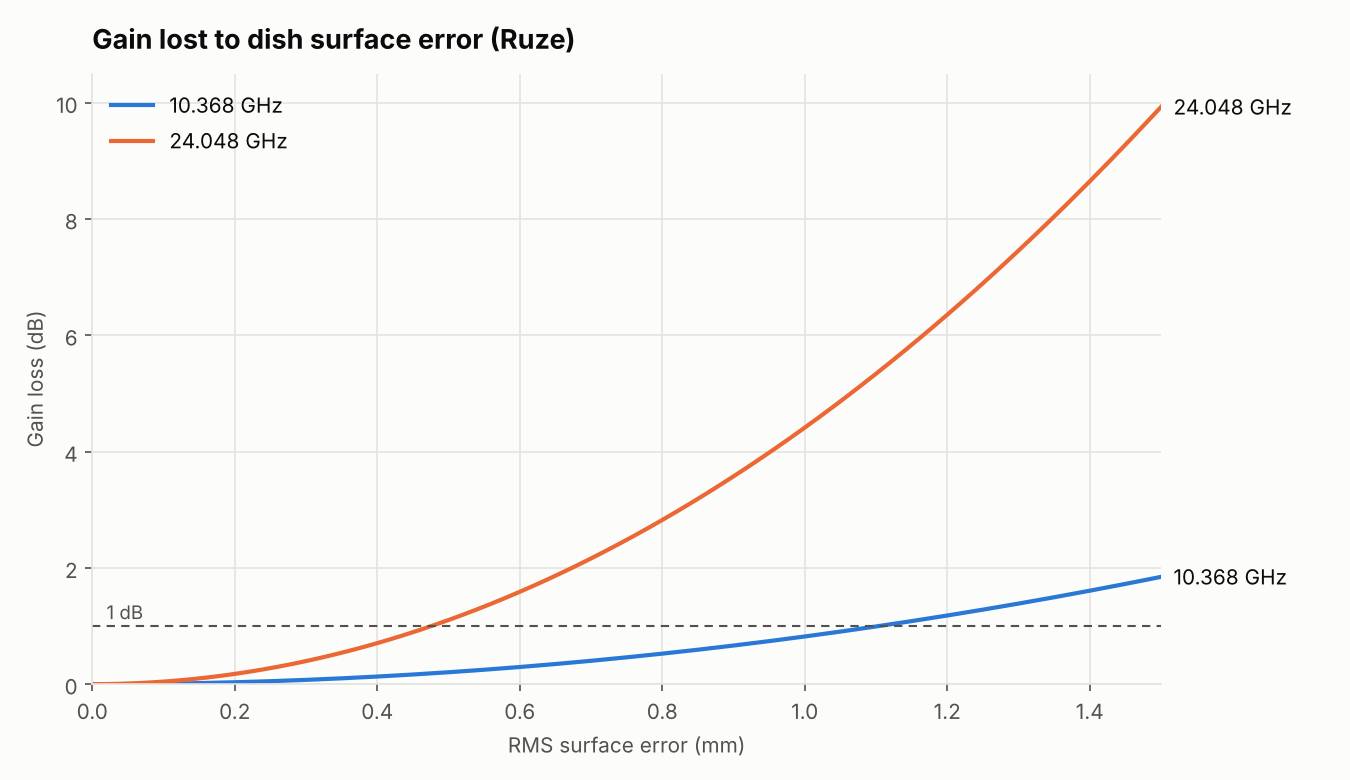
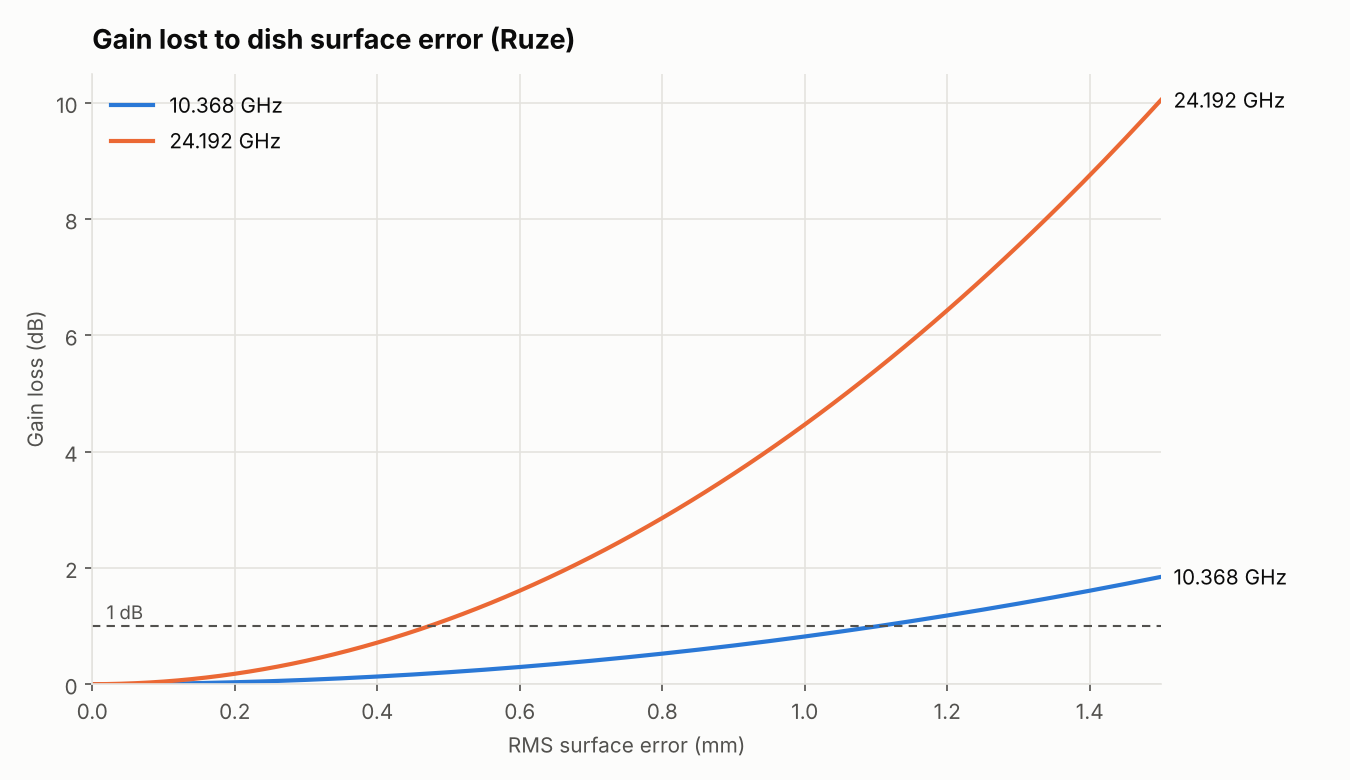
Use 24.192 GHz, the North American terrestrial 24 GHz frequency
Claude-Session: https://claude.ai/code/session_01UT9Wmn24kQZdNkudeefJNH

diff --git a/make_report.py b/make_report.py
@@ -16,7 +16,7 @@ import dishcalc as dc
 ROOT = pathlib.Path(__file__).parent
 DISHES = [("23.6 in", 23.6 * dc.INCH), ("24 in", 24 * dc.INCH), ("0.75 m", 0.75),
           ("0.80 m", 0.80), ("0.88 m", 0.88)]
-BANDS = [10.368, 24.048]
+BANDS = [10.368, 24.192]
 EFFS = [0.55, 0.60, 0.65, 0.70, 0.75]
 RMS = [0.25, 0.5, 0.75, 1.0]
 
@@ -79,7 +79,7 @@ def style(ax, title, xlabel, ylabel):
 def chart_loss_vs_rms():
     eps = np.linspace(0, 1.5, 151)
     fig, ax = plt.subplots(figsize=(9, 5.2), facecolor=SURFACE)
-    for f, color, label in ((10.368, BLUE, "10.368 GHz"), (24.048, ORANGE, "24.048 GHz")):
+    for f, color, label in ((10.368, BLUE, "10.368 GHz"), (24.192, ORANGE, "24.192 GHz")):
         y = [dc.ruze_loss_db(e, f) for e in eps]
         ax.plot(eps, y, color=color, linewidth=2, label=label)
         ax.annotate(label, (eps[-1], y[-1]), xytext=(6, 0), textcoords="offset points",
@@ -142,7 +142,7 @@ def chart_net_eff_by_band():
     fig, ax = plt.subplots(figsize=(9, 5.2), facecolor=SURFACE)
     ax.axhline(illum * 100, color=INK2, linewidth=1.2, linestyle=(0, (4, 3)))
     ax.text(0.01, illum * 100 + 1.2, f"Perfect surface: {illum:.1%} (any band)", color=INK2, fontsize=9)
-    for f, color in ((10.368, BLUE), (24.048, ORANGE)):
+    for f, color in ((10.368, BLUE), (24.192, ORANGE)):
         y = [illum * 10 ** (-dc.ruze_loss_db(e, f) / 10) * 100 for e in eps]
         ax.plot(eps, y, color=color, linewidth=2, label=f"{f} GHz")
         ax.annotate(f"{f} GHz", (eps[-1], y[-1]), xytext=(6, 0), textcoords="offset points",
@@ -176,7 +176,7 @@ SCENARIOS = [
 def scenario_table() -> str:
     other = 10 ** (-OTHER_LOSS_DB / 10)
     t = ("| Dish | RMS (assumed) | Illum. × spill | Blockage 10 / 24 | Net eff. 10 GHz | Net eff. 24 GHz "
-         "| Gain 10.368 | Gain 24.048 |\n|---|---|---|---|---|---|---|---|\n")
+         "| Gain 10.368 | Gain 24.192 |\n|---|---|---|---|---|---|---|---|\n")
     for name, geom, fd, feed_fd, rms in SCENARIOS:
         n, _ = dc.best_feed_n(feed_fd)
         illum = dc.illumination_efficiency(n, fd)
@@ -211,14 +211,14 @@ def main():
     tables = (
         "### 10 GHz (10.368 GHz, λ = {:.2f} mm) — gain in dBi\n\n{}\n\n"
         "At 10.4 GHz add about 0.03 dB.\n\n"
-        "### 24 GHz (24.048 GHz, λ = {:.2f} mm) — gain in dBi\n\n{}\n\n"
+        "### 24 GHz (24.192 GHz, λ = {:.2f} mm) — gain in dBi\n\n{}\n\n"
         "### Surface-error (Ruze) loss\n\n{}\n\n"
         "### Surface tolerance for a given loss budget\n\n{}\n\n"
         "### Illumination efficiency by band (prime focus, best-matched feed)\n\n{}\n\n"
         "### Feed f/D mismatch example (prime focus: feed for f/D 0.40 on an f/D 0.31 dish)\n\n{}\n\n"
         "### Offset vs. prime focus: planning comparison\n\n{}"
     ).format(dc.wavelength_m(10.368) * 1000, gain_table(10.368),
-             dc.wavelength_m(24.048) * 1000, gain_table(24.048),
+             dc.wavelength_m(24.192) * 1000, gain_table(24.192),
              ruze_table(), tolerance_table(), efficiency_band_table(), feed_table(), scenario_table())
     readme = ROOT / "README.md"
     text = readme.read_text()

diff --git a/tests/test_dishcalc.py b/tests/test_dishcalc.py
@@ -21,14 +21,14 @@ def test_efficiency_not_squared():
 
 
 def test_band_scaling():
-    diff = dc.gain_dbi(0.75, 24.048, 0.6) - dc.gain_dbi(0.75, 10.368, 0.6)
-    assert math.isclose(diff, 20 * math.log10(24.048 / 10.368), abs_tol=1e-9)
+    diff = dc.gain_dbi(0.75, 24.192, 0.6) - dc.gain_dbi(0.75, 10.368, 0.6)
+    assert math.isclose(diff, 20 * math.log10(24.192 / 10.368), abs_tol=1e-9)
 
 
 def test_ruze():
-    assert math.isclose(dc.ruze_loss_db(0.5, 24.048), 1.10, abs_tol=0.01)
+    assert math.isclose(dc.ruze_loss_db(0.5, 24.192), 1.12, abs_tol=0.01)
     assert math.isclose(dc.ruze_loss_db(0.5, 10.368), 0.21, abs_tol=0.01)
-    assert math.isclose(dc.ruze_loss_db(dc.rms_for_loss_mm(1.0, 24.048), 24.048), 1.0, abs_tol=1e-9)
+    assert math.isclose(dc.ruze_loss_db(dc.rms_for_loss_mm(1.0, 24.192), 24.192), 1.0, abs_tol=1e-9)
 
 
 def test_feed_mismatch():
@@ -47,11 +47,11 @@ def test_illumination_band_independent_and_net_by_band():
     # Ideal illumination efficiency is pure geometry: textbook ~82-83 % for cos^2 at f/D 0.4.
     assert 0.80 < dc.illumination_efficiency(2.0, 0.40) < 0.84
     # Surface error makes the same dish less efficient at 24 GHz than at 10 GHz.
-    assert dc.net_efficiency(0.6, 24.048, 0.5) < dc.net_efficiency(0.6, 10.368, 0.5)
+    assert dc.net_efficiency(0.6, 24.192, 0.5) < dc.net_efficiency(0.6, 10.368, 0.5)
 
 
 def test_blockage_smaller_at_24ghz():
     d = 0.75
     b10 = dc.blockage_efficiency(3 * dc.wavelength_m(10.368), d)
-    b24 = dc.blockage_efficiency(3 * dc.wavelength_m(24.048), d)
+    b24 = dc.blockage_efficiency(3 * dc.wavelength_m(24.192), d)
     assert 0.95 < b10 < b24 < 1.0

diff --git a/README.md b/README.md
@@ -8,8 +8,8 @@ It includes a small Python calculator (`dishcalc.py`), a script that regenerates
 
 ## Key takeaways
 
-- **The same dish gains 7.31 dB going from 10.368 to 24.048 GHz**, as long as its efficiency holds up.
-- **Efficiency usually doesn't hold up at 24 GHz.** Surface-error loss grows with frequency squared, so a given surface costs about **5.4×** as many dB at 24 GHz as at 10 GHz. A pressed-steel dish with 0.5–0.8 mm RMS error barely notices it on 10 GHz (0.2–0.5 dB) but loses 1.1–2.8 dB on 24 GHz.
+- **The same dish gains 7.36 dB going from 10.368 to 24.192 GHz**, as long as its efficiency holds up.
+- **Efficiency usually doesn't hold up at 24 GHz.** Surface-error loss grows with frequency squared, so a given surface costs about **5.4×** as many dB at 24 GHz as at 10 GHz. A pressed-steel dish with 0.5–0.8 mm RMS error barely notices it on 10 GHz (0.2–0.5 dB) but loses 1.1–2.9 dB on 24 GHz.
 - **Illumination efficiency is pure geometry.** A feed scaled to each band gives the same illumination efficiency on 10 and 24 GHz. The difference between bands comes from the surface, not the feed.
 - **Offset dishes are all alike in the ways that matter here.** They're built for satellite TV and use much the same feed geometry, so f/D isn't a useful way to compare them. What separates one from another is mainly size and surface accuracy.
 - **Prime-focus dishes vary much more.** f/D, how well the feed matches it, and surface quality (spun aluminum vs. mesh or homebrew) all swing widely. That's where the f/D and feed analysis below matters.
@@ -22,7 +22,7 @@ It includes a small Python calculator (`dishcalc.py`), a script that regenerates
 pip install -r requirements.txt
 
 # Gain, surface loss and beamwidth for a 76 cm dish on 10 and 24 GHz, 60% efficiency, 0.5 mm RMS
-python dishcalc.py -d 76cm -f 10.368 24.048 -e 0.60 -r 0.5
+python dishcalc.py -d 76cm -f 10.368 24.192 -e 0.60 -r 0.5
 
 # Add a feed-mismatch estimate
 python dishcalc.py -d 24in -f 10.368 -e 0.65 --dish-fd 0.31 --feed-fd 0.40
@@ -120,43 +120,43 @@ All tables below are generated by `make_report.py`. Gains are in dBi, and effici
 
 At 10.4 GHz add about 0.03 dB.
 
-### 24 GHz (24.048 GHz, λ = 12.47 mm) — gain in dBi
+### 24 GHz (24.192 GHz, λ = 12.39 mm) — gain in dBi
 
 | Dish | 55% | 60% | 65% | 70% | 75% | HPBW |
 |---|---|---|---|---|---|---|
-| 23.6 in (0.599 m) | 40.99 | 41.36 | 41.71 | 42.03 | 42.33 | 1.46° |
-| 24 in (0.610 m) | 41.13 | 41.51 | 41.86 | 42.18 | 42.48 | 1.43° |
-| 0.75 m (0.750 m) | 42.93 | 43.31 | 43.66 | 43.98 | 44.28 | 1.16° |
-| 0.80 m (0.800 m) | 43.49 | 43.87 | 44.22 | 44.54 | 44.84 | 1.09° |
-| 0.88 m (0.880 m) | 44.32 | 44.70 | 45.05 | 45.37 | 45.67 | 0.99° |
+| 23.6 in (0.599 m) | 41.04 | 41.42 | 41.76 | 42.09 | 42.39 | 1.45° |
+| 24 in (0.610 m) | 41.18 | 41.56 | 41.91 | 42.23 | 42.53 | 1.42° |
+| 0.75 m (0.750 m) | 42.98 | 43.36 | 43.71 | 44.03 | 44.33 | 1.16° |
+| 0.80 m (0.800 m) | 43.55 | 43.92 | 44.27 | 44.59 | 44.89 | 1.08° |
+| 0.88 m (0.880 m) | 44.37 | 44.75 | 45.10 | 45.42 | 45.72 | 0.99° |
 
 ### Surface-error (Ruze) loss
 
-| RMS surface error | 10.368 GHz | 24.048 GHz |
+| RMS surface error | 10.368 GHz | 24.192 GHz |
 |---|---|---|
 | 0.25 mm | 0.05 dB | 0.28 dB |
-| 0.5 mm | 0.21 dB | 1.10 dB |
-| 0.75 mm | 0.46 dB | 2.48 dB |
-| 1.0 mm | 0.82 dB | 4.41 dB |
+| 0.5 mm | 0.21 dB | 1.12 dB |
+| 0.75 mm | 0.46 dB | 2.51 dB |
+| 1.0 mm | 0.82 dB | 4.47 dB |
 
 ### Surface tolerance for a given loss budget
 
-| Max loss accepted | RMS allowed @ 10.368 GHz | RMS allowed @ 24.048 GHz |
+| Max loss accepted | RMS allowed @ 10.368 GHz | RMS allowed @ 24.192 GHz |
 |---|---|---|
 | 0.25 dB | 0.55 mm | 0.24 mm |
-| 0.5 dB | 0.78 mm | 0.34 mm |
-| 1 dB | 1.10 mm | 0.48 mm |
+| 0.5 dB | 0.78 mm | 0.33 mm |
+| 1 dB | 1.10 mm | 0.47 mm |
 | 3 dB | 1.91 mm | 0.82 mm |
 
 ### Illumination efficiency by band (prime focus, best-matched feed)
 
-| Dish f/D | Ideal (any band) | 10.368 GHz @ 0.5 mm | 10.368 GHz @ 1.0 mm | 24.048 GHz @ 0.5 mm | 24.048 GHz @ 1.0 mm |
+| Dish f/D | Ideal (any band) | 10.368 GHz @ 0.5 mm | 10.368 GHz @ 1.0 mm | 24.192 GHz @ 0.5 mm | 24.192 GHz @ 1.0 mm |
 |---|---|---|---|---|---|
-| 0.35 | 83.8% | 79.9% | 69.3% | 65.0% | 30.3% |
-| 0.40 | 82.7% | 78.9% | 68.5% | 64.2% | 30.0% |
-| 0.50 | 82.0% | 78.2% | 67.9% | 63.6% | 29.7% |
-| 0.60 | 81.7% | 77.9% | 67.6% | 63.4% | 29.6% |
-| 0.80 | 81.5% | 77.8% | 67.5% | 63.2% | 29.5% |
+| 0.35 | 83.8% | 79.9% | 69.3% | 64.8% | 30.0% |
+| 0.40 | 82.7% | 78.9% | 68.5% | 64.0% | 29.6% |
+| 0.50 | 82.0% | 78.2% | 67.9% | 63.4% | 29.3% |
+| 0.60 | 81.7% | 77.9% | 67.6% | 63.2% | 29.2% |
+| 0.80 | 81.5% | 77.8% | 67.5% | 63.0% | 29.2% |
 
 ### Feed f/D mismatch example (prime focus: feed for f/D 0.40 on an f/D 0.31 dish)
 
@@ -170,13 +170,13 @@ The 0.40 feed loses **0.43 dB** on the 0.31 dish compared with its own 0.40 dish
 
 ### Offset vs. prime focus: planning comparison
 
-| Dish | RMS (assumed) | Illum. × spill | Blockage 10 / 24 | Net eff. 10 GHz | Net eff. 24 GHz | Gain 10.368 | Gain 24.048 |
+| Dish | RMS (assumed) | Illum. × spill | Blockage 10 / 24 | Net eff. 10 GHz | Net eff. 24 GHz | Gain 10.368 | Gain 24.192 |
 |---|---|---|---|---|---|---|---|
-| Offset TV dish, pressed steel, stock-style feed | 0.60 mm | 81.6% | 100.0% / 100.0% | 64.9% | 48.2% | 36.34 | 42.36 |
-| Prime focus, spun aluminum, f/D 0.40, matched feed | 0.25 mm | 82.7% | 97.3% / 99.5% | 67.7% | 65.8% | 36.53 | 43.71 |
-| Prime focus, spun aluminum, f/D 0.31, feed for 0.40 | 0.25 mm | 75.0% | 97.3% / 99.5% | 61.4% | 59.6% | 36.10 | 43.28 |
-| Prime focus, spun aluminum, f/D 0.31, deep-dish feed | 0.25 mm | 85.5% | 97.3% / 99.5% | 70.0% | 68.0% | 36.67 | 43.85 |
-| Prime focus, mesh/homebrew, f/D 0.45, matched feed | 1.00 mm | 82.2% | 97.3% / 99.5% | 56.4% | 25.2% | 35.74 | 39.55 |
+| Offset TV dish, pressed steel, stock-style feed | 0.60 mm | 81.6% | 100.0% / 100.0% | 64.9% | 48.0% | 36.34 | 42.39 |
+| Prime focus, spun aluminum, f/D 0.40, matched feed | 0.25 mm | 82.7% | 97.3% / 99.5% | 67.7% | 65.7% | 36.53 | 43.76 |
+| Prime focus, spun aluminum, f/D 0.31, feed for 0.40 | 0.25 mm | 75.0% | 97.3% / 99.5% | 61.4% | 59.6% | 36.10 | 43.33 |
+| Prime focus, spun aluminum, f/D 0.31, deep-dish feed | 0.25 mm | 85.5% | 97.3% / 99.5% | 70.0% | 67.9% | 36.67 | 43.90 |
+| Prime focus, mesh/homebrew, f/D 0.45, matched feed | 1.00 mm | 82.2% | 97.3% / 99.5% | 56.4% | 24.9% | 35.74 | 39.54 |
 
 All rows: 0.75 m aperture, 0.7 dB lumped for phase error, cross-pol, feed loss and struts, feed shadow 3λ across. Gains in dBi.
 <!-- TABLES:END -->
